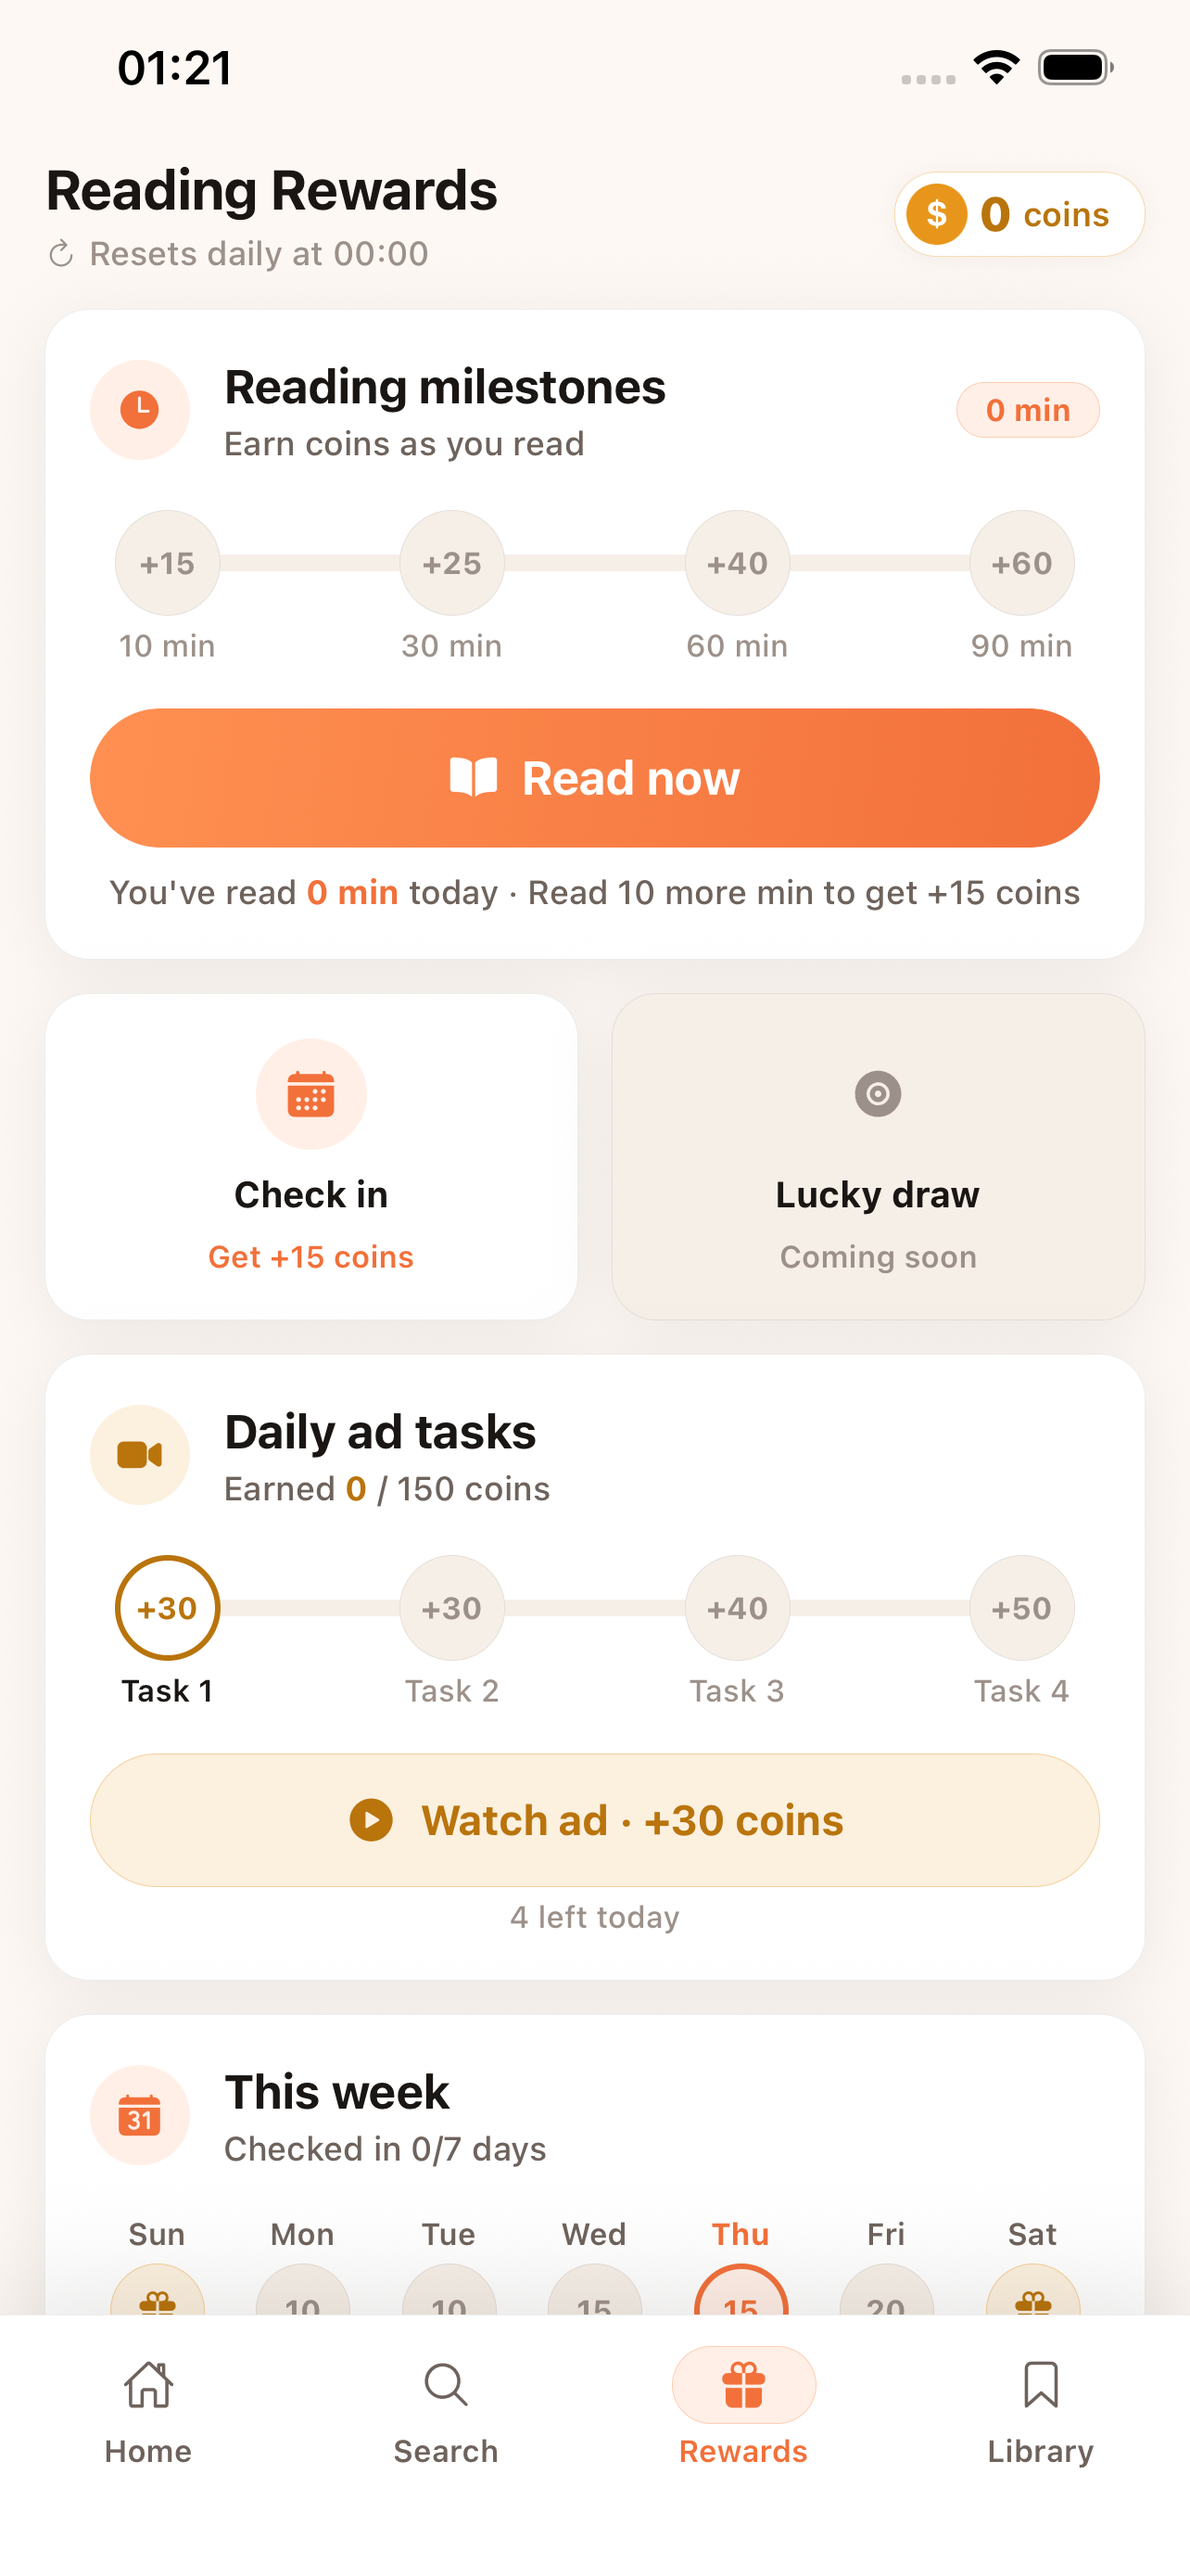
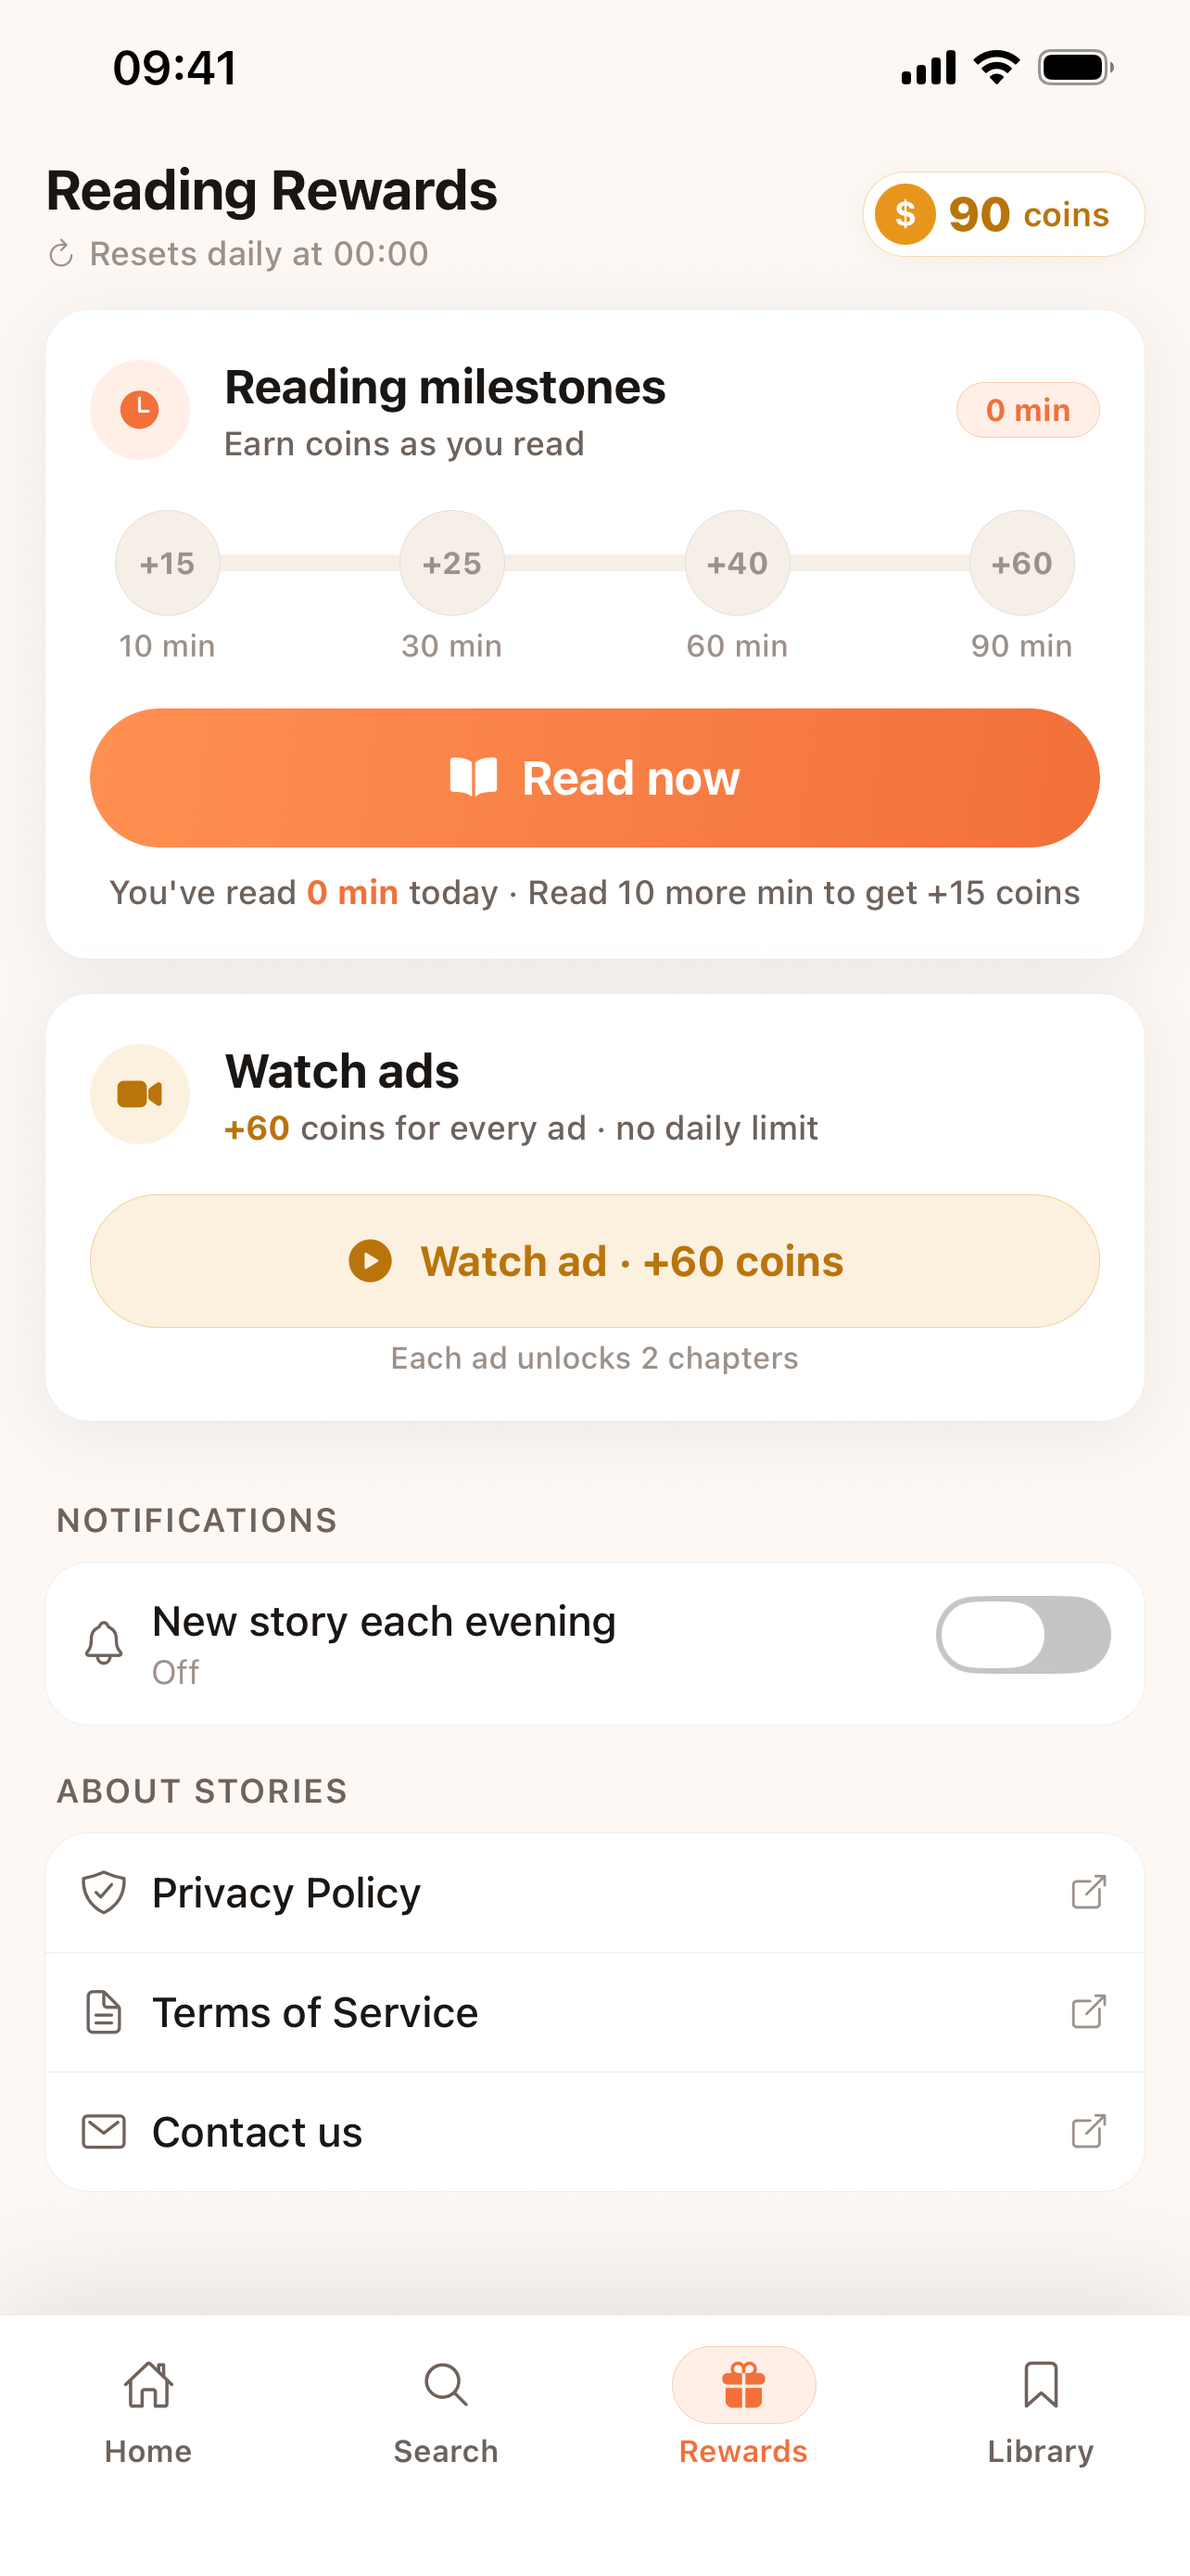
Store: ghi chú nộp 1.0.4, ảnh Rewards mới, listing + ảnh Google Play, mã QR App Store

diff --git a/store/creative/universal.html b/store/creative/universal.html
@@ -1,0 +1,70 @@
+<!doctype html>
+<!--
+  Creative asset "universal" 16:9 cho App Store (Header + Search Results), iOS 27+.
+  Xuất ra 5244x2950 PNG bằng: bash store/creative/render.sh
+  Mở file kèm #guides để thấy hai vùng cắt: 21:9 (header, cắt trên/dưới) và 3:2
+  (search results, cắt hai bên). Chữ và máy phải nằm trong phần giao của hai vùng.
+  Luật của Apple: không giá/giảm giá, không URL, không ©, không logo nền tảng khác,
+  nội dung phải đạt mức 4+ (kể cả bìa truyện), không có kênh alpha.
+-->
+<html>
+<head>
+<meta charset="utf-8">
+<title>Stories universal asset</title>
+<style>
+  :root { --ink: #1A1614; --muted: #6E635C; --accent: #FF9052; --accent-deep: #F2703A; --bg: #FDF8F4; }
+  * { box-sizing: border-box; margin: 0; padding: 0; }
+  html, body { width: 2622px; height: 1475px; overflow: hidden; }
+  body {
+    position: relative;
+    color: var(--ink);
+    font-family: -apple-system, BlinkMacSystemFont, "Helvetica Neue", sans-serif;
+    -webkit-font-smoothing: antialiased;
+    background:
+      radial-gradient(1000px 820px at 1900px 760px, rgba(255, 144, 82, .40), rgba(255, 144, 82, 0) 72%),
+      radial-gradient(1300px 900px at 260px 80px, #FFE6D2, rgba(255, 230, 210, 0) 70%),
+      linear-gradient(135deg, #FFF2E6 0%, var(--bg) 46%, #FBE6D5 100%);
+  }
+
+  .copy {
+    position: absolute; left: 300px; top: 0; bottom: 0; width: 1040px;
+    display: flex; flex-direction: column; justify-content: center;
+  }
+  h1 { font-size: 150px; line-height: 1.0; font-weight: 800; letter-spacing: -4px; }
+  h1 em {
+    font-style: normal;
+    background: linear-gradient(100deg, var(--accent), var(--accent-deep));
+    -webkit-background-clip: text; background-clip: text; color: transparent;
+  }
+  .copy p { margin-top: 48px; font-size: 60px; line-height: 1.3; font-weight: 500; color: var(--muted); max-width: 1000px; }
+
+  .phone {
+    position: absolute; width: 491px; padding: 18px; border-radius: 96px;
+    background: #1C1714;
+    box-shadow: 0 70px 130px rgba(140, 60, 15, .30), 0 22px 44px rgba(26, 22, 20, .20), inset 0 0 0 3px #3A322D;
+  }
+  .phone img { display: block; width: 100%; border-radius: 78px; }
+  .phone.back { left: 1400px; top: 236px; transform: rotate(-7deg) scale(.93); }
+  .phone.front { left: 1840px; top: 225px; }
+
+  .guides { display: none; position: absolute; inset: 0; pointer-events: none; }
+  .guides div { position: absolute; border: 4px dashed rgba(0, 120, 255, .9); }
+  :target.guides, .show-guides .guides { display: block; }
+</style>
+</head>
+<body>
+  <div class="copy">
+    <h1>Your next<br>chapter is<br><em>waiting.</em></h1>
+    <p>Read it yourself, or sit back and listen.</p>
+  </div>
+
+  <div class="phone back"><img src="../screenshots/ios-6.9/2-detail.png" alt=""></div>
+  <div class="phone front"><img src="../screenshots/ios-6.9/5-audio.png" alt=""></div>
+
+  <div class="guides" id="guides">
+    <!-- 21:9 giữ nguyên chiều ngang, cắt 175.5px trên/dưới; 3:2 giữ chiều cao, cắt 204.75px hai bên -->
+    <div style="left:0; right:0; top:175.5px; bottom:175.5px"></div>
+    <div style="left:204.75px; right:204.75px; top:0; bottom:0; border-color: rgba(255, 0, 120, .9)"></div>
+  </div>
+</body>
+</html>

diff --git a/store/creative/play/feature.html b/store/creative/play/feature.html
@@ -1,0 +1,58 @@
+<!doctype html>
+<!--
+  Feature graphic cho Google Play: 1024x500, JPEG hoặc PNG 24-bit (không alpha).
+  Xuất: bash store/creative/play/render.sh  -> feature-1024x500.png
+  Không vẽ máy iPhone (trang Android), không giá, không "#1"/"best", không URL.
+  Bìa truyện lấy từ API production (covers/), chọn bìa không có máu/bạo lực.
+-->
+<html>
+<head>
+<meta charset="utf-8">
+<title>Stories feature graphic</title>
+<style>
+  :root { --ink: #1A1614; --muted: #6E635C; --accent: #FF9052; --accent-deep: #F2703A; --bg: #FDF8F4; }
+  * { box-sizing: border-box; margin: 0; padding: 0; }
+  html, body { width: 1024px; height: 500px; overflow: hidden; }
+  body {
+    position: relative;
+    color: var(--ink);
+    font-family: -apple-system, BlinkMacSystemFont, "Helvetica Neue", sans-serif;
+    -webkit-font-smoothing: antialiased;
+    background:
+      radial-gradient(420px 360px at 760px 270px, rgba(255, 144, 82, .42), rgba(255, 144, 82, 0) 72%),
+      radial-gradient(520px 380px at 80px 20px, #FFE6D2, rgba(255, 230, 210, 0) 70%),
+      linear-gradient(135deg, #FFF2E6 0%, var(--bg) 46%, #FBE6D5 100%);
+  }
+  .copy { position: absolute; left: 64px; top: 0; bottom: 0; width: 470px;
+          display: flex; flex-direction: column; justify-content: center; }
+  .brand { display: flex; align-items: center; gap: 12px; margin-bottom: 26px; }
+  .brand img { width: 44px; height: 44px; border-radius: 11px; box-shadow: 0 4px 10px rgba(140, 60, 15, .25); }
+  .brand span { font-size: 26px; font-weight: 800; letter-spacing: -.5px; }
+  .brand span b { color: var(--accent-deep); }
+  h1 { font-size: 58px; line-height: 1.02; font-weight: 800; letter-spacing: -1.6px; }
+  h1 em { font-style: normal; background: linear-gradient(100deg, var(--accent), var(--accent-deep));
+          -webkit-background-clip: text; background-clip: text; color: transparent; }
+  .copy p { margin-top: 20px; font-size: 22px; line-height: 1.3; font-weight: 500; color: var(--muted); }
+
+  .cover { position: absolute; width: 168px; height: 224px; border-radius: 14px; overflow: hidden;
+           box-shadow: 0 22px 40px rgba(140, 60, 15, .28), 0 6px 14px rgba(26, 22, 20, .18); }
+  .cover img { width: 100%; height: 100%; object-fit: cover; display: block; }
+  .c1 { left: 540px; top: 150px; transform: rotate(-9deg); }
+  .c2 { left: 634px; top: 104px; transform: rotate(-4deg); }
+  .c3 { left: 732px; top: 84px;  transform: rotate(0deg); width: 184px; height: 245px; z-index: 3; }
+  .c4 { left: 818px; top: 118px; transform: rotate(5deg); z-index: 2; }
+  .c1 { z-index: 1; } .c2 { z-index: 2; }
+</style>
+</head>
+<body>
+  <div class="copy">
+    <div class="brand"><img src="../../../mobile/assets/images/icon.png" alt=""><span>Stor<b>ies</b></span></div>
+    <h1>Your next chapter<br>is <em>waiting.</em></h1>
+    <p>Read it yourself, or sit back and listen.</p>
+  </div>
+  <div class="cover c1"><img src="covers/an-address-in-kentucky.jpg" alt=""></div>
+  <div class="cover c2"><img src="covers/nine-tiers-of-gold-leaf.jpg" alt=""></div>
+  <div class="cover c3"><img src="covers/the-sixty-dollar-suit.jpg" alt=""></div>
+  <div class="cover c4"><img src="covers/the-black-swan-wedding.jpg" alt=""></div>
+</body>
+</html>

diff --git a/store/creative/flatten.swift b/store/creative/flatten.swift
@@ -1,0 +1,31 @@
+// Bỏ kênh alpha khỏi PNG: App Store không nhận creative asset có alpha/trong suốt,
+// mà ảnh chụp từ Chrome luôn là RGBA (dù mọi điểm ảnh đều đục).
+// Dùng: swift flatten.swift vao.png ra.png
+import CoreGraphics
+import Foundation
+import ImageIO
+import UniformTypeIdentifiers
+
+let args = CommandLine.arguments
+guard args.count == 3,
+      let source = CGImageSourceCreateWithURL(URL(fileURLWithPath: args[1]) as CFURL, nil),
+      let image = CGImageSourceCreateImageAtIndex(source, 0, nil),
+      let ctx = CGContext(data: nil, width: image.width, height: image.height, bitsPerComponent: 8,
+                          bytesPerRow: 0, space: CGColorSpace(name: CGColorSpace.sRGB)!,
+                          bitmapInfo: CGImageAlphaInfo.noneSkipLast.rawValue)
+else {
+    FileHandle.standardError.write("cách dùng: swift flatten.swift vao.png ra.png\n".data(using: .utf8)!)
+    exit(1)
+}
+
+let rect = CGRect(x: 0, y: 0, width: image.width, height: image.height)
+ctx.setFillColor(CGColor(red: 1, green: 1, blue: 1, alpha: 1))
+ctx.fill(rect)
+ctx.draw(image, in: rect)
+
+guard let flat = ctx.makeImage(),
+      let dest = CGImageDestinationCreateWithURL(URL(fileURLWithPath: args[2]) as CFURL,
+                                                 UTType.png.identifier as CFString, 1, nil)
+else { exit(1) }
+CGImageDestinationAddImage(dest, flat, nil)
+exit(CGImageDestinationFinalize(dest) ? 0 : 1)

diff --git a/store/PLAY_LISTING.md b/store/PLAY_LISTING.md
@@ -1,0 +1,56 @@
+# Google Play: trang thông tin app (soạn 09/11/2026)
+
+App: **Stories: Billionaire Novels**, package `com.chutuan.stories`, tài khoản Play Console cá nhân.
+Bản đầu tiên: 1.0.4, versionCode 2 (EAS, profile `production`, file .aab).
+
+Nội dung dựa trên Description iOS 1.0.4. Chỗ khác: đoạn PRIVACY bỏ câu "does not track you across other apps"
+vì trên Android, SDK AdMob vẫn đọc Advertising ID (dùng để giới hạn tần suất và chống gian lận, kể cả khi
+quảng cáo không cá nhân hoá). Phần Data safety cũng phải khai ID này.
+
+## Tên app (tối đa 30 ký tự)
+
+```text
+Stories: Billionaire Novels
+```
+
+## Mô tả ngắn (tối đa 80 ký tự)
+
+```text
+Short serial stories of revenge, secret identities and second chances.
+```
+
+## Mô tả đầy đủ (tối đa 4000 ký tự)
+
+```text
+Short serialised stories you can finish in one sitting: people who are underestimated, betrayed or written off, and what happens when the truth finally comes out.
+
+WHAT YOU GET
+
+• Original serials across Revenge, Family Drama, Secret Identity, Second Chance, CEO, Romance, Suspense and Mystery
+• A reader built for long sessions: adjust font size, line spacing and brightness, and choose between four page themes including a night theme
+• Narrated audio on selected stories: listen instead of read
+• Some stories are free from the first chapter to the last
+• Rate every chapter with one tap and see how other readers liked it
+• No account, no sign-up, no email: open the app and start reading
+
+HOW COINS WORK
+
+Every new install starts with 90 coins, enough to unlock three chapters straight away. The first chapter of every story is free. Later chapters cost 30 coins each and stay unlocked on your device.
+
+Coins are earned inside the app and are never sold for money. Reach a reading-time milestone, or watch an optional rewarded video for 60 coins, as often as you like. Videos depend on ad availability: if none is available while you are short of coins on a locked chapter, the app may add just enough to unlock it, a limited number of times a day.
+
+PRIVACY
+
+Stories has no accounts and ads are non-personalised. Your coins, unlocked chapters, saved stories, reading history and reading settings stay on your device. If you turn on the optional daily new-story notification, the app sends our server a notification token and your time zone so the notification arrives in your evening; turning it off deletes them. If you rate a chapter, the app sends the score with a random identifier that is not linked to you.
+
+Privacy Policy, Terms of Service and a contact page are linked at the bottom of the Library and Rewards tabs, and at tunastory.com.
+```
+
+## Thông tin khác
+
+- Danh mục: Books & Reference (Sách và tài liệu tham khảo).
+- Email liên hệ: email tài khoản developer (Play bắt buộc công khai một email).
+- Website: https://tunastory.com
+- Chính sách quyền riêng tư: https://tunastory.com/privacy
+- Quyền truy cập ứng dụng: mọi tính năng dùng được mà không cần đăng nhập.
+- Quảng cáo: Có (Google AdMob).

diff --git a/store/ASC_METADATA_1.0.4.md b/store/ASC_METADATA_1.0.4.md
@@ -1,4 +1,12 @@
-# Metadata cho phiên bản 1.0.4 (BẢN NHÁP, chưa điền lên App Store Connect)
+# Metadata cho phiên bản 1.0.4 (build 12)
+
+**Đã nộp duyệt 08/11/2026 ~14:53 (giờ máy)** — "Waiting for Review", tự phát hành khi duyệt xong, phát hành ngay cho
+mọi người, giữ rating cũ. Build 12 archive tại máy (Xcode 27B52, cùng toolchain với 1.0.3; framework native cùng UUID với
+1.0.3, chỉ JS đổi) và upload bằng `xcodebuild -exportArchive` (destination upload, không qua Organizer); số build giữ 12.
+TestFlight: nhóm nội bộ "Team (Expo)". Promotional text, Description, What's New, Notes đã dán đúng các bản dưới đây
+(kiểm SHA-256 sau khi tải lại trang). Ảnh Rewards thay mới ở iPhone 6.9" (vị trí 5; 6.5" tự dùng ảnh 6.9") và iPad 13"
+(vị trí 5): `store/screenshots/ios-6.9/4-rewards.png`, `ipad-13/5-rewards.png` (`ios-6.5/4-rewards.png` chụp kèm, chưa dùng).
+Trong lúc duyệt: giữ free_chapters/tên #16 và #11, giữ cấp bù 2 lần/ngày (Notes dựa vào đó).
 
 Soạn 08/11/2026. Thay đổi trong app (Tuấn yêu cầu 08/11):
 - bỏ điểm danh hằng ngày;
